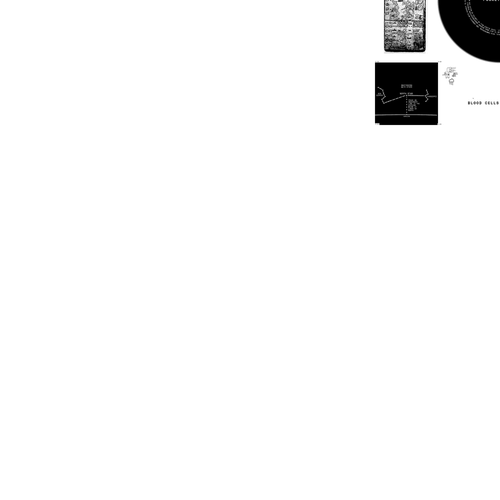
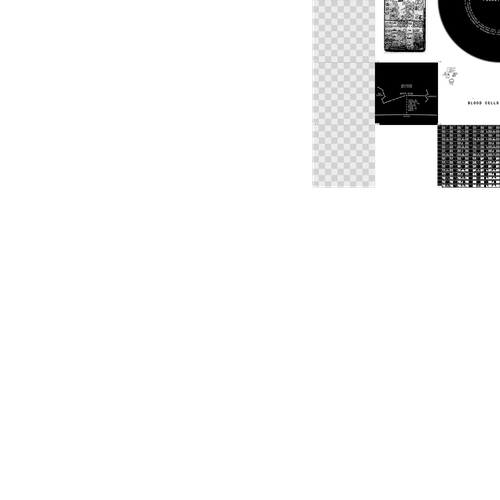
Working with latest updated tiles.
Still has debug layer. um scale not right

Changed region(s): [[0.6, 0.0, 0.75, 0.39], [0.87, 0.24, 1.0, 0.39]]

diff --git a/docs/app.js b/docs/app.js
@@ -256,153 +256,84 @@
   
   map.addControl(new MicrometerScale({ position: 'bottomright', imperial: false }));
 
-  // ---- Load map.json and render ----
-  fetch(MAP_JSON_URL, { cache: 'no-cache' })
-    .then((r) => {
-      if (!r.ok) throw new Error(`Failed to load ${MAP_JSON_URL}: ${r.status}`);
-      console.log("map.json loaded");
-      return r.json();
-    })
-    .then((mapData) => {
-      // mapData is expected to be an object: { "H4": { claimed: true|false }, ... }
-      console.log("mapData", mapData);
-      // Dictionary mapping parcel keys to claimed status (true/false)
-      const claimedDict = Object.fromEntries(
-        Object.entries(mapData)
-          .map(([k, v]) => [k, v && v.claimed === true])
-      );
-
-      // Custom tile layer that maps Leaflet tile coords -> our grid keys
-      // and also uses a custom getTileUrl function to return a locally generated placeholder image for unclaimed tiles to avoid unnecessary network requests.
-      const ParcelsTileLayer = L.TileLayer.extend({
-        getTileUrl: function (coords) {
-          console.log("coords", coords);
-
-          //return makeDebugTileDataURL(  coords , "out of range");
-
-          // debug
-          // return makeDebugTileDataURL(  coords , "debug");
-
-          // Out-of-range -> sky-blue placeholder
-          // if (row < 0 || row >= ROWS || col < 0 || col >= COLS) {
-          //   return makeDebugTileDataURL(  coords , "out of range");
-          // }
-
-          console.log("making tileUrl");
+  const DebugTileLayer = L.TileLayer.extend({
+    getTileUrl: function (coords) {
+    
+      // debug
+      return makeDebugTileDataURL(  coords , "debug");
+    },
+  });
 
 
-          // Convert the coords (y,x) into a parcel row and col
-          // remember that each tile is 500x500 pixels
+  // Debug tile layer shows coords in inside each tile
+  const parcels = new DebugTileLayer(  'world/tiles/{z}/{x}/{y}.png' , {       
+      tileSize: TILE_SIZE,  
+      bounds: worldBounds,
+      minNativeZoom: 0,
+      maxNativeZoom: 6,
+      minZoom: -6, 
+      maxZoom: 10,        
+      noWrap: true,
+      updateWhenIdle: true,
 
+  }).addTo(map);
 
-          // col 0 is at x=0
-          const col = coords.x;
+  // This is the main tile layer that shows the parcels. It will intionally fail to load tiles that are not found.
+  // I think a 404 is faster than returning a 1px placeholder tile?
 
-          // y starts at 0 on the bottom and goes negative as we go up. 
-          const row = -coords.y 
+  const parcelsLayer = new L.TileLayer(  'world/{z}/{x}/{y}.png' , {       
+    tileSize: TILE_SIZE,  
+    bounds: worldBounds,
+    minNativeZoom: 0,
+    maxNativeZoom: 6,
+    minZoom: -6, 
+    maxZoom: 10,        
+    noWrap: true,
+    updateWhenIdle: true,
+  }).addTo(map);      
 
-          // now convert the row to letters...
-          const rowLetters = indexToLetters(row);           
+  // OMG, the whole problem was that you MUST supply a URL tremplate here EVEN THOUGH YOU ARE NOT ACTUALLY USING IT!
+  // SO bad. so many hours wasted on this. 
 
-          // Keys for map.json are 1-based (A1 top-left), but filenames use 0-based numeric.
-          const parcelName = `${rowLetters}${col}`; // 1-based for presence check
+  // const parcels = new DebugTileLayer(  'world/tiles/{z}/{x}/{y}.png' ,{
+  //   tileSize: TILE_SIZE,
 
-          console.log("row", row, "col", col, "parcelName", parcelName);
+  //   // So I am only going to provide tiles at the native resolution (zoom 0) and let Leaflet do any other scaling up or down
+  //   // locally. minNativeZoom must match or be lower than the map's minZoom to enable auto-scaling.
+  //   minNativeZoom: 0,
+  //   maxNativeZoom: 6,
+  //   minZoom: -4, 
+  //   maxZoom: 10,        
+  //   noWrap: true,
+  //   updateWhenIdle: true,
+  // }).addTo(map);
 
-          if (parcelName in claimedDict) {
+  // // Lets test with a static tile
+  // const parcels = new L.TileLayer( '500x500-test.png', {
 
-            if (claimedDict[parcelName]) {
-              const tileUrl = `${TILE_DIR}/tile-${parcelName}.png`; // 0-based for actual file path
-              return tileUrl;
-            }
+  //   tileSize: TILE_SIZE,
 
-            return UNCLAIMED_TILE_URL;
-          }
+  //   // So I am only going to provide tiles at the native resolution (zoom 0) and let Leaflet do any other scaling up or down
+  //   // locally. minNativeZoom must match or be lower than the map's minZoom to enable auto-scaling.
+  //   minNativeZoom: 0,
+  //   maxNativeZoom: 0,
+  //   minZoom: -2, 
+  //   maxZoom: 2,
+  //   noWrap: true,
+  //   updateWhenIdle: true,
+  // }).addTo(map);
 
-          // If we didn't find a tile, return the sky blue placeholder
-          return NONEXISTANT_TILE_URL;
-        },
-      });
+  // For now, show the whole world at startup
+  // todo: zoom into 2x2 center parcels
+  //map.fitBounds(worldBounds, { padding: [80, 80] });
 
-      // Custom tile layer that maps Leaflet tile coords -> our grid keys
-      // and also uses a custom getTileUrl function to return a locally generated placeholder image for unclaimed tiles to avoid unnecessary network requests.
-      const DebugTileLayer = L.TileLayer.extend({
-        getTileUrl: function (coords) {
-          console.log("coords", coords);
-        
-          // debug
-          return makeDebugTileDataURL(  coords , "debug");
-
-          // If we didn't find a tile, return the sky blue placeholder
-          return NONEXISTANT_TILE_URL;
-        },
-      });
-
-
-      // Debug tile layer shows coords in inside each tile
-      const parcels = new DebugTileLayer(  'world/tiles/{z}/{x}/{y}.png' , {       
-          tileSize: TILE_SIZE,  
-          bounds: worldBounds,
-          minNativeZoom: 0,
-          maxNativeZoom: 6,
-          minZoom: -6, 
-          maxZoom: 10,        
-          noWrap: true,
-          updateWhenIdle: true,
-
-      }).addTo(map);
-
-      // OMG, the whole problem was that you MUST supply a URL tremplate here EVEN THOUGH YOU ARE NOT ACTUALLY USING IT!
-      // SO bad. so many hours wasted on this. 
-
-      // const parcels = new DebugTileLayer(  'world/tiles/{z}/{x}/{y}.png' ,{
-      //   tileSize: TILE_SIZE,
-
-      //   // So I am only going to provide tiles at the native resolution (zoom 0) and let Leaflet do any other scaling up or down
-      //   // locally. minNativeZoom must match or be lower than the map's minZoom to enable auto-scaling.
-      //   minNativeZoom: 0,
-      //   maxNativeZoom: 6,
-      //   minZoom: -4, 
-      //   maxZoom: 10,        
-      //   noWrap: true,
-      //   updateWhenIdle: true,
-      // }).addTo(map);
-
-
-
-
-      // // Lets test with a static tile
-      // const parcels = new L.TileLayer( '500x500-test.png', {
-
-      //   tileSize: TILE_SIZE,
-
-      //   // So I am only going to provide tiles at the native resolution (zoom 0) and let Leaflet do any other scaling up or down
-      //   // locally. minNativeZoom must match or be lower than the map's minZoom to enable auto-scaling.
-      //   minNativeZoom: 0,
-      //   maxNativeZoom: 0,
-      //   minZoom: -2, 
-      //   maxZoom: 2,
-      //   noWrap: true,
-      //   updateWhenIdle: true,
-      // }).addTo(map);
-
-      // For now, show the whole world at startup
-      // todo: zoom into 2x2 center parcels
-      //map.fitBounds(worldBounds, { padding: [80, 80] });
-
-      // Optional: click to log the tile coordinate under the cursor
-      map.on('click', (e) => {
-        const col = Math.floor(e.latlng.lng / TILE_SIZE);
-        const row = Math.floor(e.latlng.lat / TILE_SIZE);
-        if (row >= 0 && row < ROWS && col >= 0 && col < COLS) {
-          const coord = `${indexToLetters(row)}${col + 1}`;
-          console.log('Clicked tile:', coord, { row, col });
-        }
-      });
-    })
-    .catch((err) => {
-      console.error(err);
-      // If map.json is missing, still show the full grid area for reference
-      //map.fitBounds(worldBounds, { padding: [80, 80] });
-    });
+  // Optional: click to log the tile coordinate under the cursor
+  map.on('click', (e) => {
+    const col = Math.floor(e.latlng.lng / TILE_SIZE);
+    const row = Math.floor(e.latlng.lat / TILE_SIZE);
+    if (row >= 0 && row < ROWS && col >= 0 && col < COLS) {
+      const coord = `${indexToLetters(row)}${col + 1}`;
+      console.log('Clicked tile:', coord, { row, col });
+    }
+  });
 })();

diff --git a/build_world.py b/build_world.py
@@ -15,6 +15,7 @@ Usage:
 import argparse
 import math
 import re
+import shutil
 import sys
 from pathlib import Path
 from typing import Dict, Tuple, Optional
@@ -283,6 +284,13 @@ def main() -> int:
     
     print(f"\n✅ Loaded {len(parcels)} parcels")
     print()
+    
+    # Clean output directory
+    if output_dir.exists():
+        print(f"🧹 Cleaning old files from {output_dir.absolute()}...")
+        shutil.rmtree(output_dir)
+        print("✅ Old files removed")
+        print()
     
     # Build pyramid
     output_dir.mkdir(parents=True, exist_ok=True)

diff --git a/README.md b/README.md
@@ -16,16 +16,27 @@ This new system replaces an older one that was based on PHP and a MySQL database
 This will grab all the tiles that are listed as "claimed" in the old database and copy them down to the `tiles` directory.
 
 ```
-.\download_tiles.py --server https://pocketfiche.cwandt.com --output docs/tiles
+.\download_tiles.py --server https://pocketfiche.cwandt.com --output parcels/
 ```
 
 ## 2. Create map.json
+
+[Temporarily out of service]
 
 This will create a `map.json` file that can be used by the client app to know which tiles to request from the server. 
 
 ```
 python create-map.py --tiles-dir docs/tiles --output docs/map.json
 ```
+
+## 2.5 Build world
+
+This will create a `world` directory that contains all the tiles in a single file.
+
+```
+python build_world.py --parcels-dir parcels --output-dir docs/world/
+```
+
 ## 3. Optimize PNG files for space (optional)
 
 
@@ -90,6 +101,8 @@ We will later add an overlay layer with a big circle to show the claimable radiu
 ## Coodinates
 
 We are using the simple coordinate CRS (L.CRS.Simple) so that one map unit corresponds to one pixel at zoom level 0. 
+
+IMPORTANT: Leaflet's CRS.Simple is a bit counterintuitive. The origin is at the bottom left corner of the map, and y increases as you go up. This is the opposite of what you might expect. 
 
 The middle of the "world" in the the intersecttion of the center 2x2 of parcels is....
 
